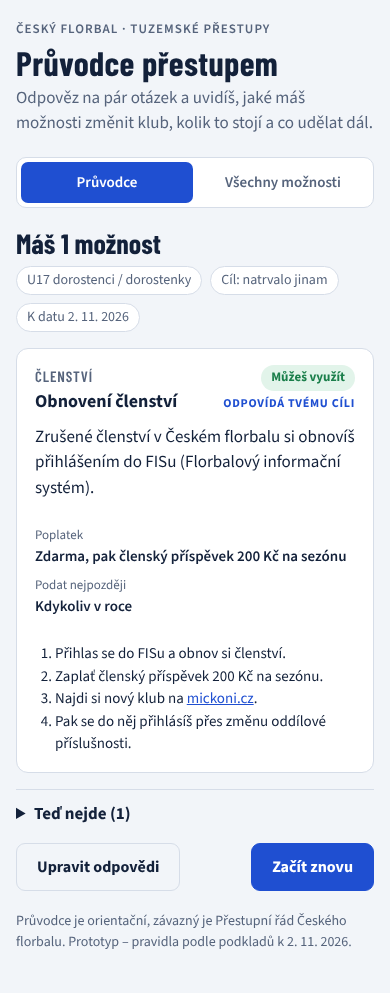
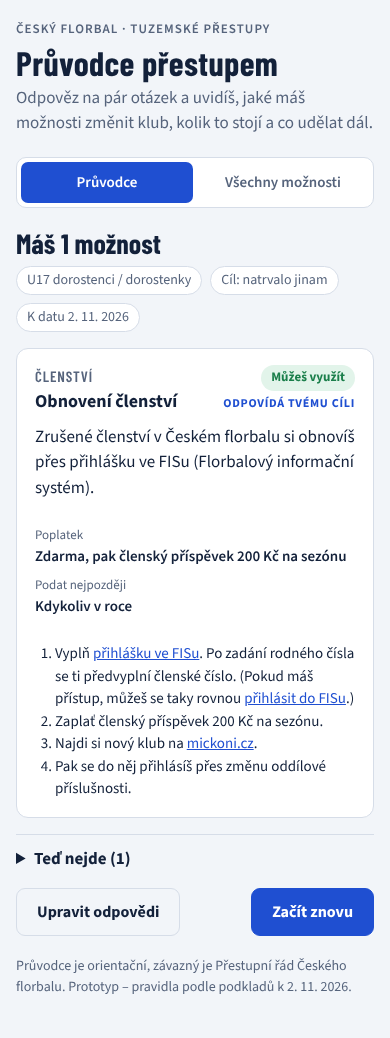
Doplnit odkazy na přihlášku a přihlášení do FISu
Obnovení členství vede přes přihlášku ve FISu (po zadání rodného čísla
předvyplní členské číslo), alternativně přes přihlášení do FISu.

Claude-Session: https://claude.ai/code/session_01MkvpftWQefkJWtxSvvUdfU

diff --git a/index.html b/index.html
@@ -143,11 +143,13 @@ const CONFIG = {
   topLeagues: ["Superliga","1. liga mužů","Národní liga","Extraliga žen","1. liga žen"],
   disputeUrl: "https://www.ceskyflorbal.cz/neshoda-u-zadosti-o-prestup",
   findClubUrl: "https://mickoni.cz/",
-  membershipFee: 200 // členský příspěvek ČF za sezónu (Kč)
+  membershipFee: 200, // členský příspěvek ČF za sezónu (Kč)
+  fisLoginUrl: "https://login.ceskyflorbal.cz/osoba/",
+  fisApplicationUrl: "https://fis.ceskyflorbal.cz/index.php?pageid=2599&onlycontent=1" // přihláška; po zadání RČ předvyplní členské číslo
 };
 
 const OPTIONS = [
-  {id:"prihlaska", code:"Členství", name:"Obnovení členství", what:"Zrušené členství v Českém florbalu si obnovíš přihlášením do FISu (Florbalový informační systém).", goal:["trvale"]},
+  {id:"prihlaska", code:"Členství", name:"Obnovení členství", what:"Zrušené členství v Českém florbalu si obnovíš přes přihlášku ve FISu (Florbalový informační systém).", goal:["trvale"]},
   {id:"zop", code:"Bez přestupu", name:"Změna oddílové příslušnosti", what:"Přihlásíš se do nového klubu bez přestupu a zdarma. Jde to, když nemáš žádný klub, nebo když jsi rok nehrál(a).", goal:["trvale"]},
   {id:"prestup", code:"Natrvalo", name:"Přestup", what:"Přejdeš do nového klubu natrvalo. Z mateřského oddílu tě vyřadí k datu přestupu.", goal:["trvale"]},
   {id:"host", code:"Dočasně", name:"Hostování", what:"Dočasně budeš hrát za jiný klub, nejdéle do konce sezóny 30. 6. Pak se vracíš.", goal:["docasne"]},
@@ -235,14 +237,17 @@ function evaluate(){
   const set = (id, status, deadline, reason, steps) => R[id] = {status, deadline, reason, steps, fee:fee(id)};
 
   // Změna oddílové příslušnosti
-  const clubLink = `<a href="${CONFIG.findClubUrl}" target="_blank" rel="noopener">mickoni.cz</a>`;
+  const link = (url, text) => `<a href="${url}" target="_blank" rel="noopener">${text}</a>`;
+  const clubLink = link(CONFIG.findClubUrl, "mickoni.cz");
+  const fisApply = link(CONFIG.fisApplicationUrl, "přihlášku ve FISu");
+  const fisLogin = link(CONFIG.fisLoginUrl, "přihlásit do FISu");
   if (A.state!=="bez") set("prihlaska","no","Kdykoliv v roce","Týká se jen hráčů bez klubu, kteří už nejsou členy ČF.");
-  else if (A.memberNow==="ne") set("prihlaska","yes","Kdykoliv v roce","",["Přihlas se do FISu a obnov si členství.",`Zaplať členský příspěvek ${CONFIG.membershipFee} Kč na sezónu.`,`Najdi si nový klub na ${clubLink}.`,"Pak se do něj přihlásíš přes změnu oddílové příslušnosti."]);
-  else if (A.memberNow==="nevim") set("prihlaska","maybe","Kdykoliv v roce","Pokud jsi členství zrušil(a), nejdřív si ho obnov přihlášením do FISu.",["Přihlas se do FISu a zkontroluj, jestli máš aktivní členství."]);
+  else if (A.memberNow==="ne") set("prihlaska","yes","Kdykoliv v roce","",[`Vyplň ${fisApply}. Po zadání rodného čísla se ti předvyplní členské číslo. (Pokud máš přístup, můžeš se taky rovnou ${fisLogin}.)`,`Zaplať členský příspěvek ${CONFIG.membershipFee} Kč na sezónu.`,`Najdi si nový klub na ${clubLink}.`,"Pak se do něj přihlásíš přes změnu oddílové příslušnosti."]);
+  else if (A.memberNow==="nevim") set("prihlaska","maybe","Kdykoliv v roce","Pokud jsi členství zrušil(a), nejdřív si ho obnov přes přihlášku ve FISu.",[`Zkus se ${fisLogin} a zkontroluj, jestli máš aktivní členství.`,`Pokud ho nemáš, vyplň ${fisApply}. Po zadání rodného čísla se ti předvyplní členské číslo.`]);
   else set("prihlaska","no","Kdykoliv v roce","Jsi pořád členem ČF, stačí ti změna oddílové příslušnosti.");
 
   if (A.state==="bez") {
-    if (A.memberNow==="ne") set("zop","no","Kdykoliv v roce","Nejdřív si obnov členství přihlášením do FISu. Pak můžeš změnit oddílovou příslušnost.");
+    if (A.memberNow==="ne") set("zop","no","Kdykoliv v roce","Nejdřív si obnov členství přes přihlášku ve FISu. Pak můžeš změnit oddílovou příslušnost.");
     else if (A.zop3m==="ano") set("zop","no","Kdykoliv v roce","Od poslední změny oddílové příslušnosti musí uběhnout alespoň 3 měsíce.");
     else if (A.zop3m==="nevim" || A.memberNow==="nevim") set("zop","maybe","Kdykoliv v roce", A.memberNow==="nevim" ? "Ověř, jestli jsi pořád členem ČF." : "Ověř, jestli jsi v posledních 3 měsících neměl(a) změnu oddílové příslušnosti.");
     else set("zop","yes","Kdykoliv v roce","",["Vyber si nový klub a domluv se s ním.","Žádost se podává v informačním systému ČF."]);
@@ -445,7 +450,7 @@ function renderAll(){
     ["sth","Začátek 1. 7. až konec přestupního období, nejvýše 105 dní",`Od starších žáků po první tři sezóny v dospělých (${yearsFor(catById("starsi").minAge, catById("dospeli21").maxAge)}); jen do vyšší celostátní soutěže, kterou klub nemá`],
     ["endHost","Nejpozději konec přestupního období","Hostování trvá alespoň 30 dnů"],
     ["endStst","Nejpozději 31. 1.","—"],
-    ["prihlaska","Kdykoliv, přihlášením do FISu","Zrušené členství v ČF"]
+    ["prihlaska","Kdykoliv, přes přihlášku ve FISu","Zrušené členství v ČF"]
   ];
   document.getElementById("all").innerHTML = `<div class="panel">
     <div style="display:flex;flex-direction:column;gap:6px"><h2>Všechny možnosti</h2>
